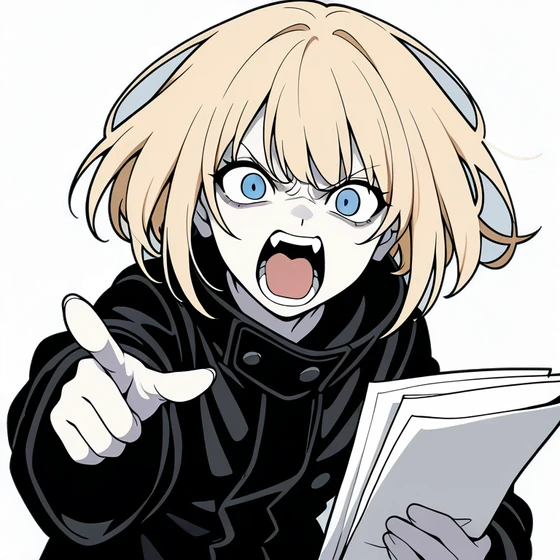
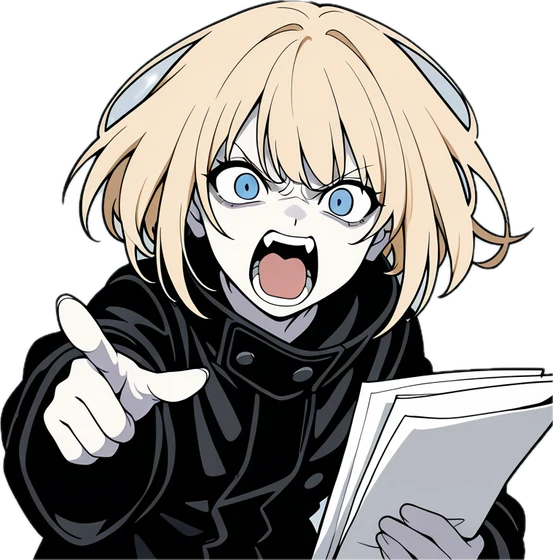
カットインの立ち絵の周りに黒い箱が出るのを直した
縁からの塗りつぶしで背景を抜いていたが、背景がグラデーションだと
「背景色からの距離に応じた半透明」ができてしまい、完全に透明な画素が
0%になっていた。薄く残った背景が演出の上で四角い箱に見える。
暗殺者は背景が濃紺なので特に目立っていた。

Apple Vision の被写体セグメンテーション（~/story/tools/matte）で
抜き直した。外周は完全に透明（alpha=0 が25%/21%、四隅はすべて0）。

許容値を上げても直らない。グラデーションが許容値を超えるため
塗りつぶしが広がらず、検出が32%から動かなかった。

diff --git a/art/README.md b/art/README.md
@@ -113,17 +113,30 @@ out = (out * (1 - alpha) + TARGET * alpha).astype(np.uint8)
 
 ## カットインの立ち絵（cutin-*.webp）
 
-背景を透明にして、演出の上に重ねる。生成→切り抜きの手順は「背景色が指定通りに
-ならないとき」と同じ塗りつぶしだが、**塗り替える代わりにアルファを0にする**。
+背景を透明にして、演出の上に重ねる。
 
-| 用途 | プロンプト | 切り抜きの許容値 |
-|---|---|---|
-| 告発者 | `(short blonde hair:1.2), (high collar black coat:1.3), long sleeves, (pale peach skin:1.4), sharp blue eyes, (pointing at viewer:1.5), (shouting:1.3), (angry determined expression:1.3), (holding documents in other hand:1.3), leaning forward, dynamic pose` | 45 |
-| 暗殺者 | `(black hood:1.2), (face mask covering mouth:1.25), (silver hair:1.2), (navy blue eyes:1.2), (high collar black coat:1.4), long sleeves, (pale peach skin:1.4), (holding dagger up:1.4), (lunging forward:1.3), sharp intense gaze, dynamic pose` | 28 |
+**切り抜きは Apple Vision を使う。** 縁からの塗りつぶしは使わない。
+
+```
+~/story/tools/matte <in.png> <out.png>
+```
+
+塗りつぶし方式で一度失敗している。背景がグラデーションだと
+「背景色からの距離に応じた半透明」ができてしまい、**完全に透明な画素が0%**になる。
+薄く残った背景が、演出の上では**四角い箱**として見える（暗殺者は背景が濃紺なので特に目立った）。
+許容値を上げても、グラデーションが許容値を超えるため塗りつぶしが広がらず解決しない。
+
+Vision なら被写体だけを抜き、外周は完全に透明（実測25%/21%が alpha=0、四隅はすべて0）。
+被写体の範囲に切り詰められて返るので、正方形ではなくなる。CSS 側は height 指定＋
+width:auto にしてあるので問題ない。
+
+| 用途 | プロンプト |
+|---|---|
+| 告発者 | `(short blonde hair:1.2), (high collar black coat:1.3), long sleeves, (pale peach skin:1.4), sharp blue eyes, (pointing at viewer:1.5), (shouting:1.3), (angry determined expression:1.3), (holding documents in other hand:1.3), leaning forward, dynamic pose` |
+| 暗殺者 | `(black hood:1.2), (face mask covering mouth:1.25), (silver hair:1.2), (navy blue eyes:1.2), (high collar black coat:1.4), long sleeves, (pale peach skin:1.4), (holding dagger up:1.4), (lunging forward:1.3), sharp intense gaze, dynamic pose` |
 
 共通プロンプトは bust portrait ではなく `upper body` にし、背景に
 `(plain flat background:1.4)` を足す。切り抜くので背景は平坦なほど良い。
 
-**許容値は必ず現物で確かめること。** 告発者は白い書類と明るい髪が背景に近いので、
-60まで緩めると髪が背景ごと溶けた。暗殺者は黒服と濃紺背景が近いので逆に絞る必要があり、
-28でも50でも結果が変わらない（=きれいに分離できている）ことを確認してから決めた。
+切り抜いたら**外周と四隅の alpha を必ず数値で確認する**。見た目だけだと、
+半透明に残った背景に気づけない。
